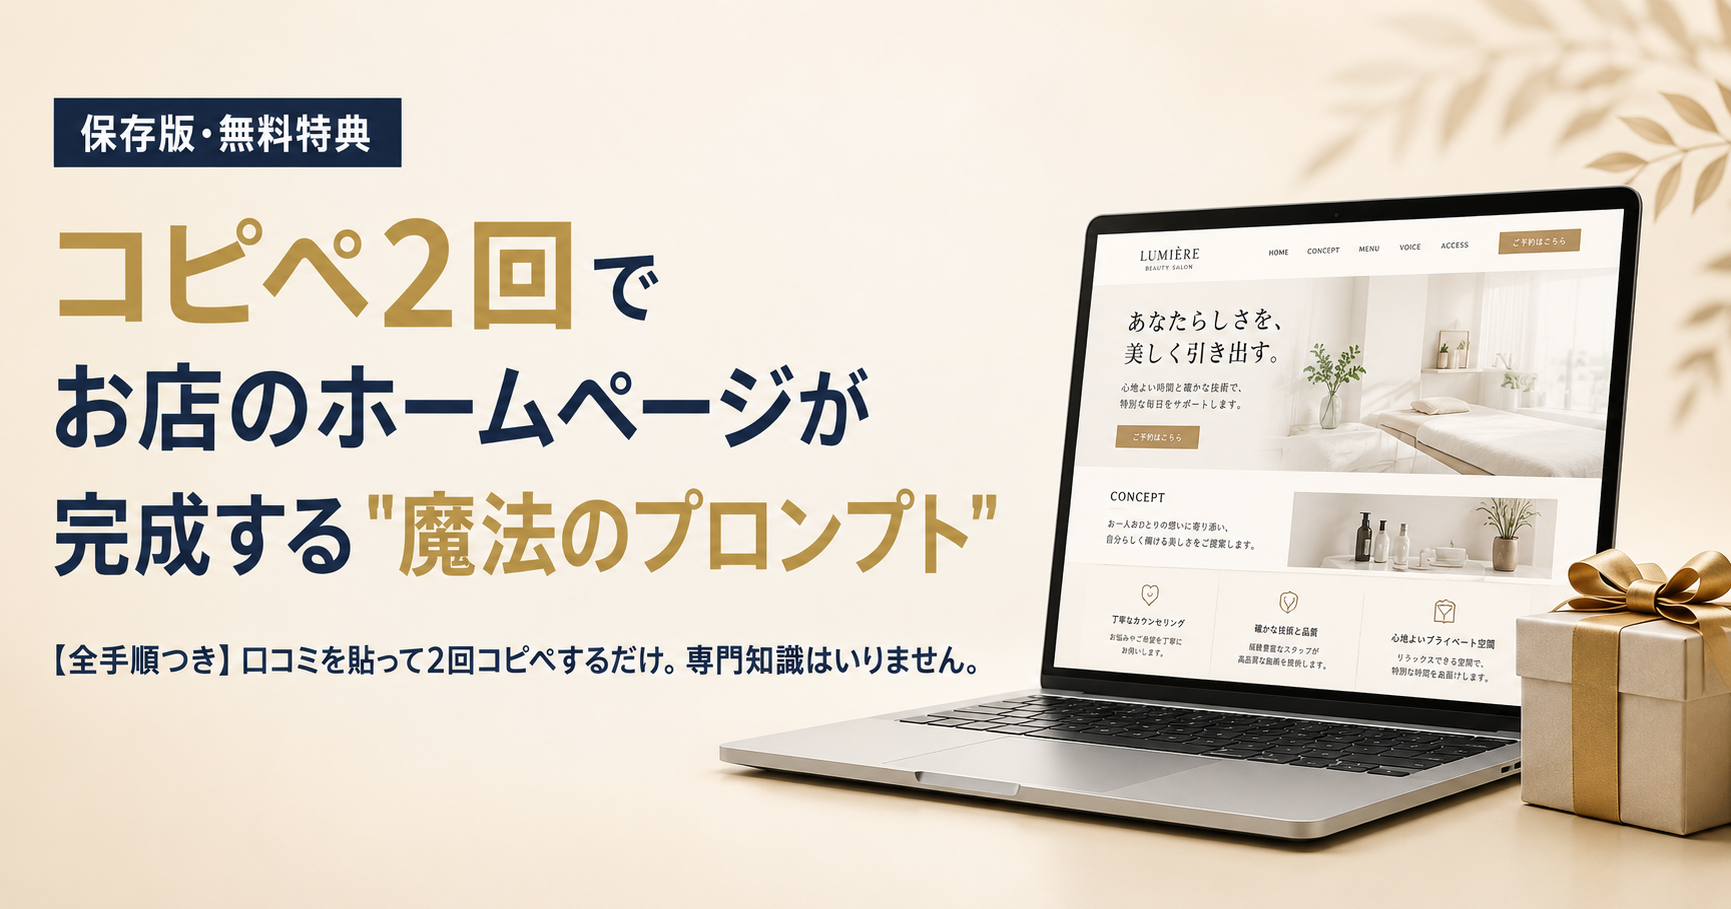
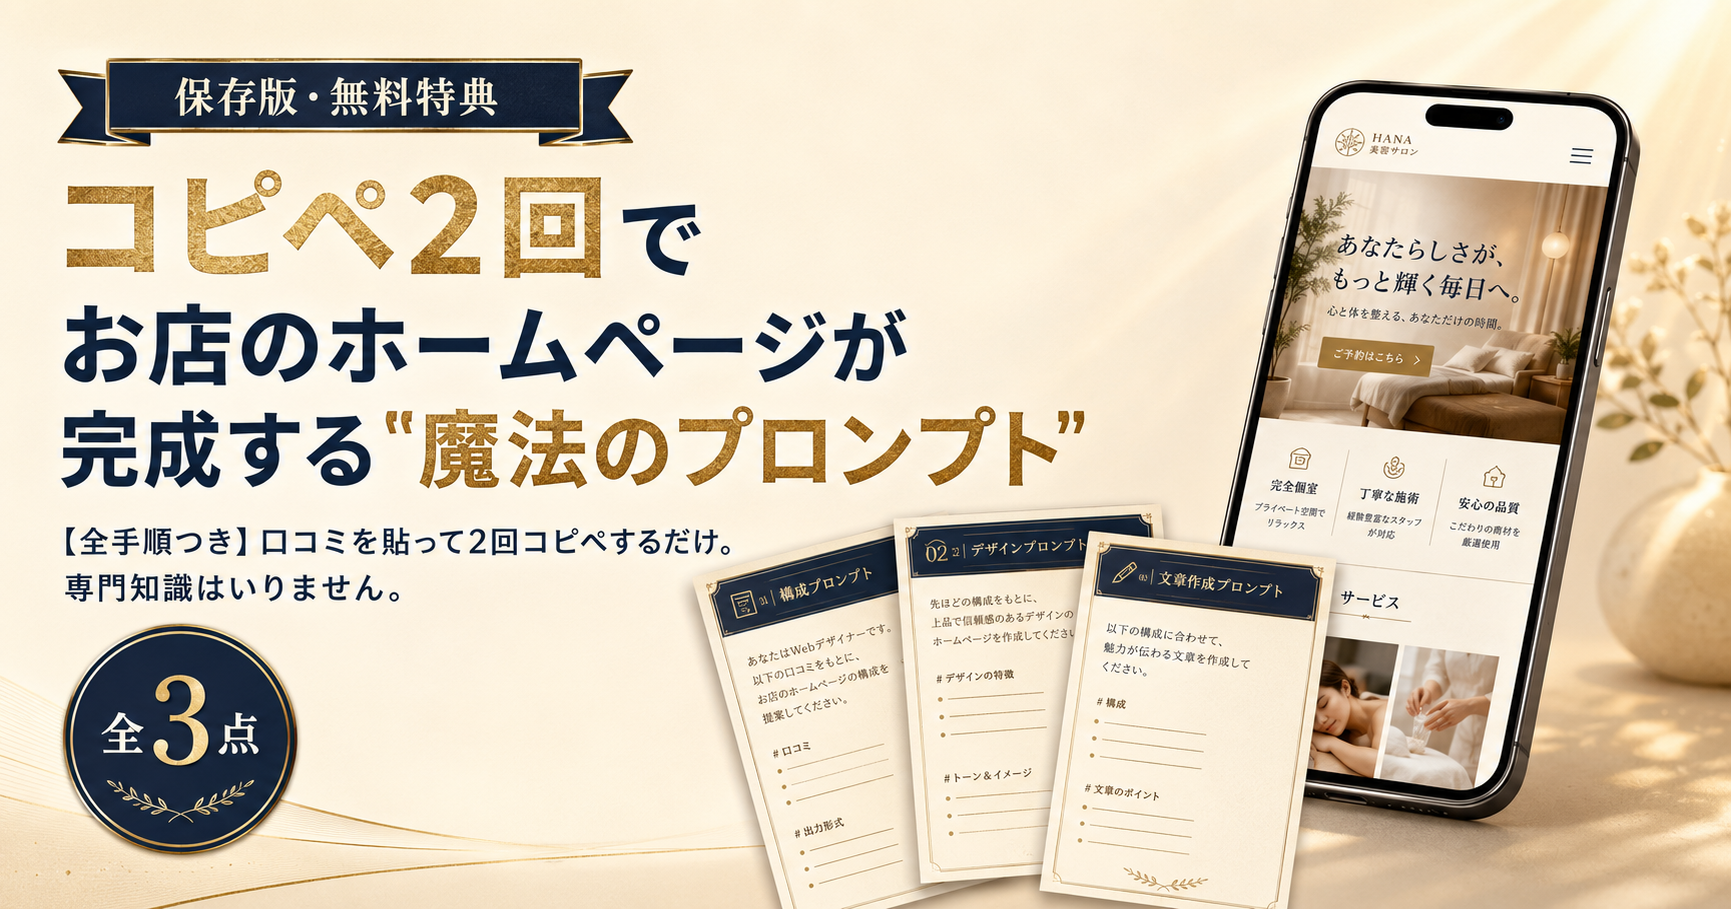
Add files via upload

diff --git a/index044.html b/index044.html
@@ -84,6 +84,13 @@ main.wrap{padding-top:26px;padding-bottom:10px}
 .onepoint .card-title{font-size:16px;color:#8A6B33;margin-bottom:10px}
 .onepoint p{font-size:14px}
 
+/* ④-2 ブリッジセクション（ゾーン1の末尾・白カードと差をつける） */
+.bridge{background:#F2E9D5;border-left:5px solid var(--gold);border-radius:0 16px 16px 0;padding:24px 20px;margin:28px 0 0;box-shadow:0 4px 14px rgba(30,42,68,.06)}
+.bridge p{font-size:14.5px;line-height:1.95;margin-bottom:14px}
+.bridge p:last-child{margin-bottom:0}
+.bridge strong{color:#8A6B33}
+.bridge .bridge-last{font-size:13.5px;color:#5A6480}
+
 /* ゾーン2：ストーリー（全幅・背景反転） */
 .zone2{background:linear-gradient(180deg,var(--z2a) 0%,var(--z2b) 100%);border-top:3px solid var(--gold);margin-top:52px;padding:60px 0 68px}
 .zone2 p{color:#F2EFE5;font-size:15.5px;margin-bottom:18px}
@@ -160,7 +167,7 @@ main.wrap{padding-top:26px;padding-bottom:10px}
 <section class="card greeting">
 <p>リールをご覧いただき、そして受け取っていただき、ありがとうございます。</p>
 <p>今回の特典は、このすぐ下にまとめてあります。<strong>STEP1〜3のすべて、今日からそのまま使えます。</strong></p>
-<p>そして今、この特典とあわせて、さらに本格的に“もう一つの給料日”を作るための『AIマネタイズの教科書』も無料でお配りしています。</p>
+<p>そして今、この特典を“点”で終わらせず、“もう一つの給料日”まで繋げる全体の地図——『AIマネタイズの教科書』も無料でお配りしています。</p>
 <a class="js-line btn-line-s" href="https://sub.aione.co.jp/p/ss6dW0WuKBch?ftid=wD2ezNjVRT9o">AIマネタイズの教科書を無料で受け取る</a>
 <p class="foreshadow">このページの最後に、僕がこの発信を始めた“本当の理由”を書きました。特典と合わせて、最後まで読んでもらえたら嬉しいです。</p>
 </section>
@@ -267,6 +274,14 @@ STEP1の回答が出たら、同じチャットの続きに下のプロンプト
 <p>文章の整理だけで十分な方はSTEP1まで、「形」まで見たい方はSTEP3まで。<br>どちらで止まっても、お店に見せられる成果物が手に入ります。</p>
 </section>
 
+<!-- ④-2 ブリッジセクション（パターンA：手法欠落型） -->
+<section class="bridge">
+<p>まずは今夜、上のSTEP1をひとつ試してみてください。口コミを貼るだけで、お店の魅力が“プロの文章”に変わるはずです。</p>
+<p>ただ、正直にお伝えします。この特典だけでは、実はまだ十分ではありません。これを“もう一つの給料日”に変えるには、特典とは別に、<strong>もう一つの手法——全体の設計図——</strong>が必要です。</p>
+<p>その手法については、LINEでお渡ししている『AIマネタイズの教科書』の中でお話ししています。</p>
+<p class="bridge-last">子どもが寝てからの1〜2時間しかない、僕と同じ40代の生活時間に合わせて組んだ内容です。</p>
+</section>
+
 </main>
 
 <!-- ⑤ ストーリーセクション（ゾーン2・全幅反転） -->
@@ -332,11 +347,11 @@ STEP1の回答が出たら、同じチャットの続きに下のプロンプト
 <div class="cta-card">
 <div class="benefit-head">LINE登録で受け取れるもの</div>
 <ul class="benefit-list">
-<li>『AIマネタイズの教科書』がその場で届きます</li>
-<li>わからない所は、LINEでそのまま質問できます</li>
-<li>ご希望の方には、無料の個別相談会をご案内します</li>
+<li>時間のない40代の生活時間に合わせて組んだ『AIマネタイズの教科書』が無料で届きます</li>
+<li>特典で受け取った“部品”を結果につなげるロードマップがわかります</li>
+<li>わからない所はLINEでそのまま質問OK。ご希望の方には、無料の個別相談もご案内します</li>
 </ul>
-<div class="limited">※予告なく配布を終了する場合があります</div>
+<div class="limited">※個別相談の枠に限りがあるため、教科書の配布は予告なく終了する場合があります</div>
 <a class="js-line btn-main" href="https://sub.aione.co.jp/p/ss6dW0WuKBch?ftid=wD2ezNjVRT9o">AIマネタイズの教科書を無料で受け取る</a>
 </div>
 